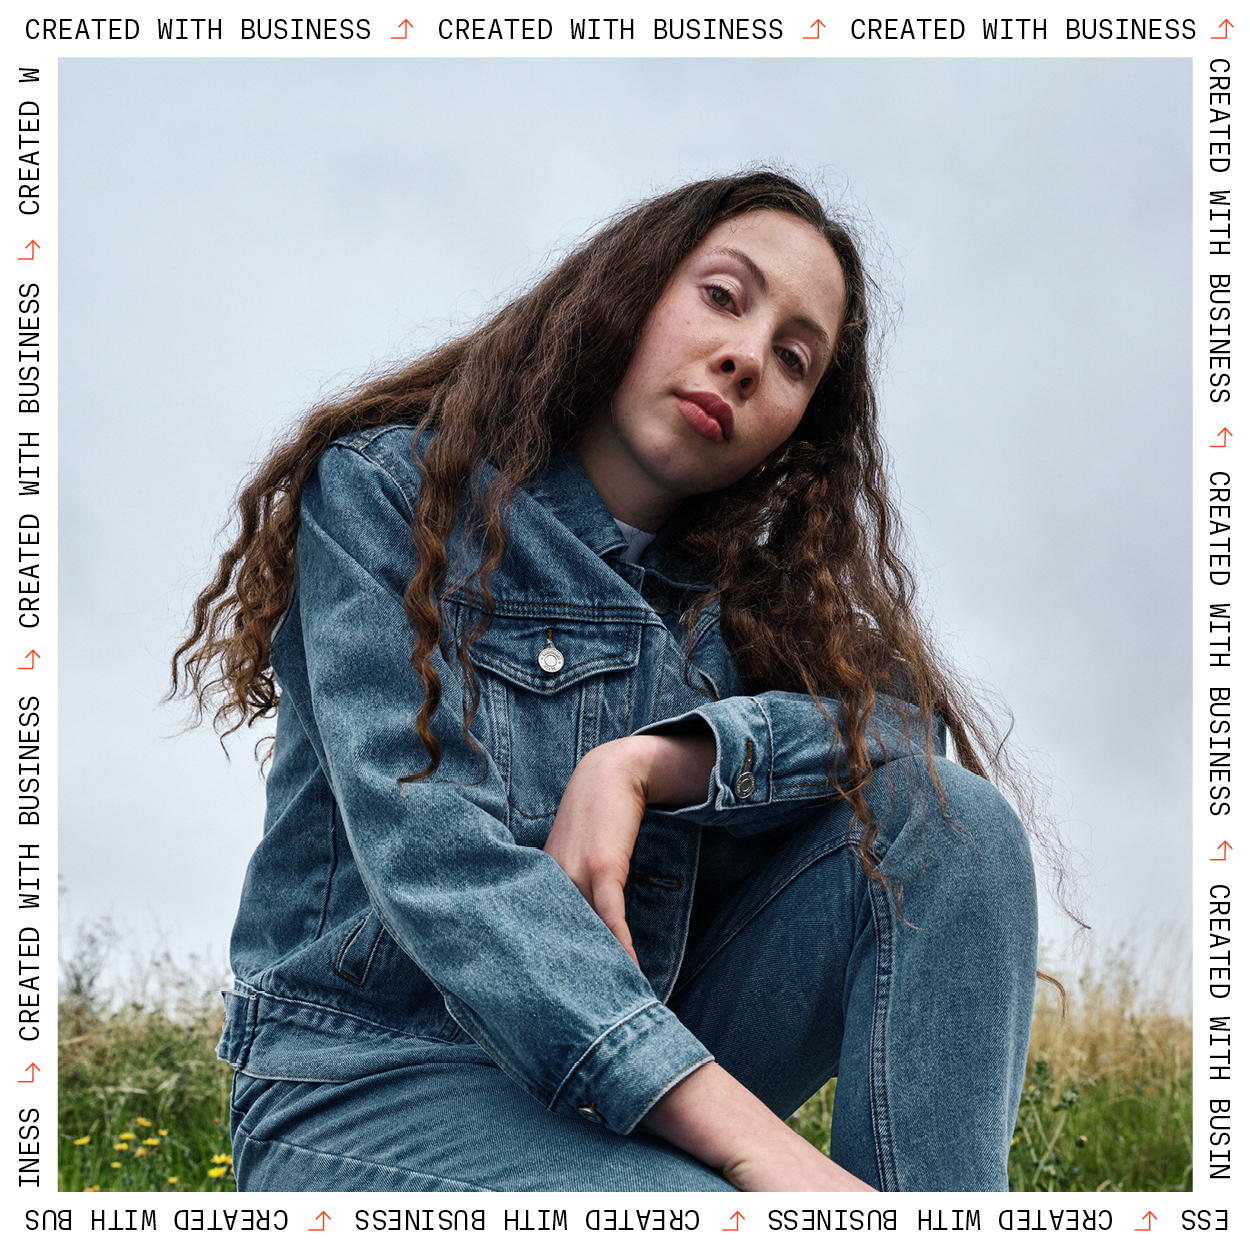
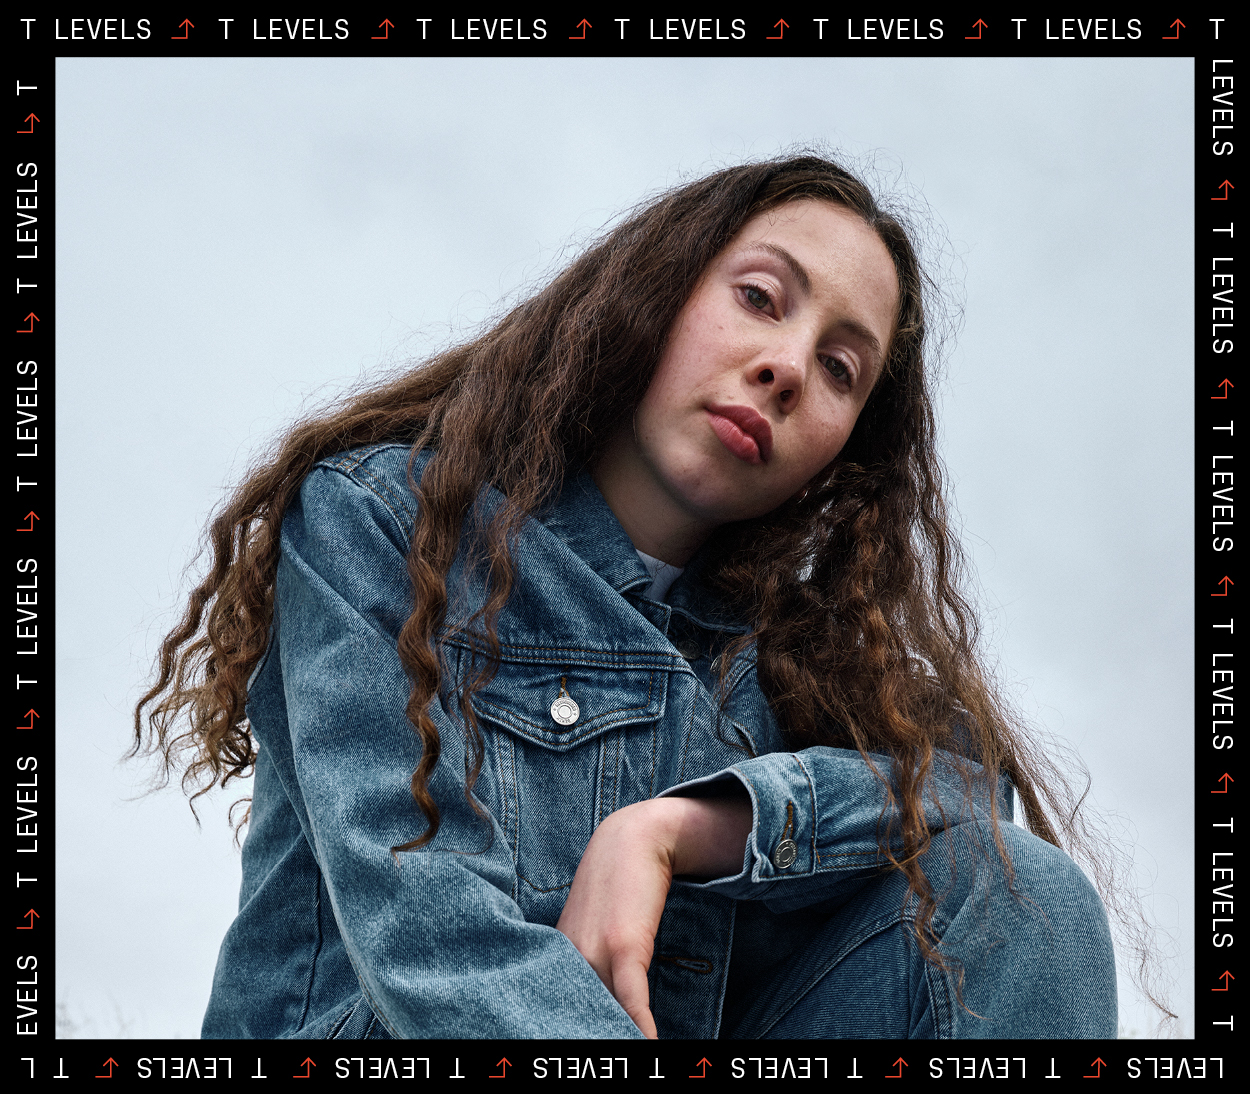
Student home page updates

diff --git a/sfa.Tl.Marketing.Communication/Frontend/src/scss/components/_banner.scss b/sfa.Tl.Marketing.Communication/Frontend/src/scss/components/_banner.scss
@@ -18,6 +18,19 @@
         }
     }
 
+
+    &--student-home {
+        padding: 60px 0;
+        background: image("StudentHomeBanner.jpg") no-repeat center;
+        background-size: cover;
+        @extend #tl-banner;
+
+
+        a {
+            @include margin(top, 20);
+        }
+    }
+
     &--student {
         background: image("nextlevel2000.png") no-repeat center;
         background-size: cover;

diff --git a/sfa.Tl.Marketing.Communication/Frontend/src/scss/helpers/_typography.scss b/sfa.Tl.Marketing.Communication/Frontend/src/scss/helpers/_typography.scss
@@ -1,7 +1,7 @@
 $headingvariables :
     xsmall 20,
     small 35,
-    medium 50,
+    medium 45,
     large 60,
     xlarge 70;
 
